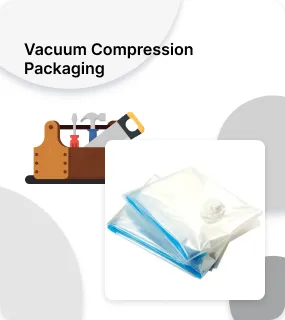
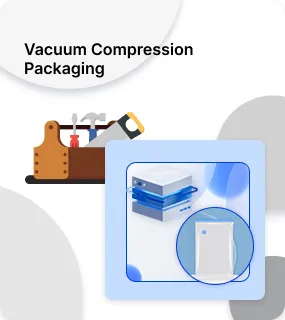
feat: dropshipping 页面调整

Changed region(s): [[0.3649, 0.4375, 0.9544, 0.9375]]

diff --git a/pages/dropshipping.vue b/pages/dropshipping.vue
@@ -4,12 +4,12 @@
 			<header class="dropshipping_header">
 <!--				<div class="title">Kickstart Your Brand Journey Instantly</div>
 				<p class="desc">Effortless dropshipping with quality products and unbeatable prices—your path to launching a successful ecommerce starts here.</p>-->
-				<el-button class="btn" type="primary" round>Start Now</el-button>
+				<el-button class="btn" @click="goLogin">Start Now</el-button>
 			</header>
 
 			<div class="common-inner-auto dropshipping-part1">
-				<div class="item pr-[80px]">
-					<img class="order-2" src="@/assets/image/dropshipping/part1_1.png" />
+				<div class="item pr-[18px]">
+					<img class="order-2" src="@/assets/image/dropshipping/part1_1.webp" />
 					<div class="desc-wrap">
 						<header class="part-title transform translate-x-[140px]" style="text-align: right;">The Hidden Challenges of Dropshipping</header>
 						<div class="desc-box">
@@ -55,8 +55,8 @@
 					</div>
 				</div>
 
-				<div class="item pl-[80px]">
-					<img src="@/assets/image/dropshipping/part1_2.png" />
+				<div class="item pl-[18px]">
+					<img src="@/assets/image/dropshipping/part1_2.webp" />
 					<div class="desc-wrap">
 						<header class="part-title transform -translate-x-[140px]" style="text-align: left;">How Hyinsight Enhances Your Efficiency</header>
 						<div class="desc-box">
@@ -144,6 +144,7 @@ import card_5 from '@/assets/image/dropshipping/card_5.webp'
 import card_6 from '@/assets/image/dropshipping/card_6.webp'
 import card_7 from '@/assets/image/dropshipping/card_7.webp'
 import card_8 from '@/assets/image/dropshipping/card_8.webp'
+import { jumpUrl } from '@/utils'
 const cardItems = [
 	{
 		pic: card_1,
@@ -178,6 +179,9 @@ const cardItems = [
 		// desc: ''
 	}
 ]
+const  goLogin = () => {
+	jumpUrl('https://seller.hyinsight.com/#/home?action=login')
+}
 </script>
 
 <style scoped lang="scss">
@@ -186,7 +190,7 @@ const cardItems = [
 		position: relative;
 		width: 100%;
 		height: px2vw(578px);
-		background: url('@/assets/image/dropshipping/head_bg.jpg') no-repeat top center;
+		background: url('@/assets/image/dropshipping/banner.webp') no-repeat top center;
 		background-size: 100% 100%;
 		//padding-top: px2vw(123px);
 		//padding-left: px2vw(334px);
@@ -202,13 +206,16 @@ const cardItems = [
 		}*/
 		.btn {
 			position: absolute;
-			left: px2vw(70px);
-			bottom: px2vw(72px);
-			width: px2vw(230px);
-			height: px2vw(60px); // !important;
-			font-size: px2vw(20px);
+			left: px2vw(448px);
+			bottom: px2vw(164px);
 			padding: 0;
-			border-radius: px2vw(60px);
+			width: px2vw(190px);
+			height: px2vw(44px);
+			border-radius: px2vw(44px);
+			font-size: px2vw(18px);
+			//background: transparent;
+			color: #3E59BB;
+			border-color: #3E59BB;
 		}
 	}
 	&-wrap {
